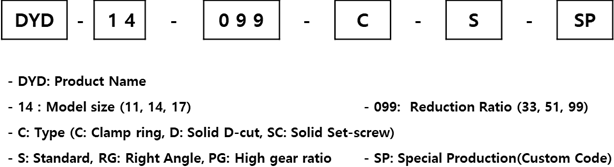
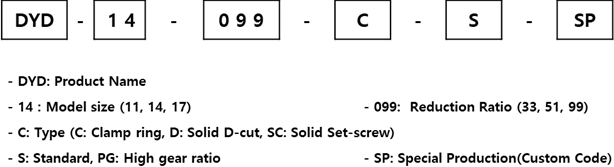
DYD update

Changed region(s): [[0.1547, 0.8982, 0.557, 1.0]]

diff --git a/docs/en/dyd/all_dyd.md b/docs/en/dyd/all_dyd.md
@@ -21,15 +21,15 @@ Generally, a traditional Cycloidal Gear Drive is well known as being strong but 
 
 |                      Characteristics                      |  Planetary  |  Harmonic   |     DYD     |
 |:---------------------------------------------------------:|:-----------:|:-----------:|:-----------:|
-|                        Gear ratio                         |  O          | **&#9678;** | **&#9678;** |
-|                       Contact ratio                       |  O          |  O          | **&#9678;** |
+|                        Gear ratio                         |      O      | **&#9678;** | **&#9678;** |
+|                       Contact ratio                       |      O      |      O      | **&#9678;** |
 |                       Compact size                        | **&#9651;** | **&#9678;** | **&#9678;** |
 |                       Light Weight                        | **&#9651;** | **&#9678;** | **&#9678;** |
-|                         Backlash                          | **&#9651;** | **&#9678;** |  O          |
+|                         Backlash                          | **&#9651;** | **&#9678;** |      O      |
 |                        Efficiency                         | **&#9678;** | **&#9678;** | **&#9678;** |
-|               Rigidity under impact (shock)               |  O          | **&#9651;** | **&#9678;** |
-|                     Noise & vibration                     | **&#9651;** | **&#9678;** |  O          |
-| Operating time to failure under heavy operating condition |  O          | **&#9651;** | **&#9678;** |
+|               Rigidity under impact (shock)               |      O      | **&#9651;** | **&#9678;** |
+|                     Noise & vibration                     | **&#9651;** | **&#9678;** |      O      |
+| Operating time to failure under heavy operating condition |      O      | **&#9651;** | **&#9678;** |
 
 {% include en/dyd/dyd_warning.md %}
 
@@ -65,28 +65,28 @@ In the following image, it is shown that the rotational direction of the input m
 
 ## [Specifications](#specifications)
 
-|             Properties             | Unit  | DYD-11-033 | DYD-11-051 | DYD-14-051 | DYD-14-099 | DYD-17-051 | DYD-17-099 |
-|:----------------------------------:|:-----:|:----------:|:----------:|:----------:|:----------:|:----------:|:----------:|
-|             Gear ratio             |   -   |     33     |     51     |     51     |     99     |     51     |     99     |
-|       Repeatable peak torque       |  Nm   |    8.5     |    17.0    |    27.0    |    39.0    |    34.0    |    54.0    |
-| Read output torque<br>(@2,000 rpm) |  Nm   |    2.2     |    3.5     |    5.4     |    7.8     |    16.0    |    24.0    |
-|        Maximum input Speed         |  rpm  |   6,000    |   6,000    |   6,000    |   6,000    |   6,000    |   6,000    |
-|        Average input speed         |  rpm  |   2,000    |   2,000    |   2,000    |   2,000    |   2,000    |   2,000    |
-|     Hysteresis loss / Backlash     | armin |    <3.0    |    <3.0    |    <3.0    |    <3.0    |    <3.0    |    <3.0    |
-|          Starting torque           |  cNm  |     20     |     20     |     20     |     20     |     30     |     30     |
-|            Service life            | horse |   3,000    |   3,000    |   5,000    |   5,000    |   5,000    |   5,000    |
-|         Dimension (W X H)          |  mm   | 43 X 23.65 | 43 X 23.6  |  ø68 x 30  |  ø68 x 30  | ø78 x 34.2 | ø78 x 34.2 |
-|               Weight               |   g   |    196     |    196     |    400     |    400     |    600     |    600     |
+|             Properties             |  Unit  | DYD-11-033  | DYD-11-051 | DYD-14-051 | DYD-14-099 | DYD-17-051 | DYD-17-099 |
+|:----------------------------------:|:------:|:-----------:|:----------:|:----------:|:----------:|:----------:|:----------:|
+|             Gear ratio             |   -    |     33      |     51     |     51     |     99     |     51     |     99     |
+|       Repeatable peak torque       |   Nm   |     8.5     |    17.0    |    27.0    |    39.0    |    34.0    |    54.0    |
+| Read output torque<br>(@2,000 rpm) |   Nm   |     2.2     |    3.5     |    5.4     |    7.8     |    16.0    |    24.0    |
+|        Maximum input speed         |  rpm   |    6,000    |   6,000    |   6,000    |   6,000    |   6,000    |   6,000    |
+|        Average input speed         |  rpm   |    2,000    |   2,000    |   2,000    |   2,000    |   2,000    |   2,000    |
+|     Hysteresis loss / Backlash     | arcmin |    <3.0     |    <3.0    |    <3.0    |    <3.0    |    <3.0    |    <3.0    |
+|          Starting torque           |  cNm   |     20      |     20     |     20     |     20     |     30     |     30     |
+|            Service life            | horse  |    3,000    |   3,000    |   5,000    |   5,000    |   5,000    |   5,000    |
+|         Dimension (W X H)          |   mm   | ø43 X 23.65 | ø43 X 23.6 |  ø68 x 30  |  ø68 x 30  | ø78 x 34.2 | ø78 x 34.2 |
+|               Weight               |   g    |     196     |    196     |    400     |    400     |    600     |    600     |
 
 ## [Part Numbers](#part-numbers)
 
 ![](/assets/images/dyd/dyd_parts_number_01.png)
 
-| Product name | Model Size | Ratio  | Shaft version |  Option   | Special production |
-|:------------:|:----------:|:------:|:-------------:|:---------:|:------------------:|
-|     DYD      |     11     | 33, 51 |      SC       | S, RG, PG |         SP         |
-|     DYD      |     14     | 51, 99 |      C,D      | S, RG, PG |         SP         |
-|     DYD      |     17     | 51, 99 |      C,D      | S, RG, PG |         SP         |
+| Product name | Model Size | Ratio  | Shaft version | Option | Special production |
+|:------------:|:----------:|:------:|:-------------:|:------:|:------------------:|
+|     DYD      |     11     | 33, 51 |      SC       |  S,PG  |         SP         |
+|     DYD      |     14     | 51, 99 |      C,D      |  S,PG  |         SP         |
+|     DYD      |     17     | 51, 99 |      C,D      |  S,PG  |         SP         |
 
 # [Product Selection Guide](#product-selection-guide)
 
@@ -185,7 +185,7 @@ The required service life for a given speed and load values can be calculated as
 |             Gear ratio             |   -    |     51     |
 |       Repeatable peak torque       |   Nm   |    27.0    |
 | Read output torque<br>(@2,000 rpm) |   Nm   |    5.4     |
-|        Maximum input Speed         |  rpm   |   6,000    |
+|        Maximum input speed         |  rpm   |   6,000    |
 |        Average input speed         |  rpm   |   2,000    |
 |     Hysteresis loss / Backlash     | arcmin |    <3.0    |
 |          Starting torque           |  cNm   |     20     |
@@ -220,7 +220,7 @@ Required service life : 5,000 hours > Expected service life : 4,880 hours
 |             Gear ratio             |     99     |
 |       Repeatable peak torque       |    39.0    |
 | Read output torque<br>(@2,000 rpm) |    7.8     |
-|        Maximum input Speed         |   6,000    |
+|        Maximum input speed         |   6,000    |
 |        Average input speed         |   2,000    |
 |     Hysteresis loss / Backlash     |    <3.0    |
 |          Starting torque           |     20     |
@@ -259,7 +259,7 @@ Starting Torque = 20 cNm (DYD-14)
 
 ### [Select the Type of Input Shaft](#select-the-type-of-input-shaft)
 
-| Option |                   Type - C                    |               Type - D                |                  Type-SC                  |
+| Option |                   Type - C                    |               Type - D                |                  Type - SC                  |
 |:------:|:---------------------------------------------:|:-------------------------------------:|:-----------------------------------------:|
 | Shape  | ![](/assets/images/dyd/dyd_clamp_ring_01.png) | ![](/assets/images/dyd/dyd_d_cut.png) | ![](/assets/images/dyd/dyd_set_screw.png) |
 |  Name  |                  Clamp-ring                   |                 D-Cut                 |                 Set-screw                 |

diff --git a/docs/en/dyd/dyd_14.md b/docs/en/dyd/dyd_14.md
@@ -25,10 +25,10 @@ product_group: all-dyd
 |             Gear ratio             |      -      |     51     |     99     |  -   |
 |       Repeatable peak torque       |     Nm      |    27.0    |    39.0    |  -   |
 | Read output torque<br>(@2,000 rpm) |     Nm      |    5.4     |    7.8     |  -   |
-|        Maximum input Speed         |     rpm     |   6,000    |   6,000    |  -   |
+|        Maximum input speed         |     rpm     |   6,000    |   6,000    |  -   |
 |        Average input speed         |     rpm     |   2,000    |   2,000    |  -   |
 |         Moment of intertia         | X10-4 kgm^2 |   0.119    |   0.135    |  -   |
-|     Hysteresis loss / Backlash     |    armin    |    <3.0    |    <3.0    |  -   |
+|     Hysteresis loss / Backlash     |   arcmin    |    <3.0    |    <3.0    |  -   |
 |            Lost motion             |   arcmin    |    <3.0    |    <3.0    |  -   |
 |        Torsional stiffness         |  Nm/arcmin  |    2.0     |    2.0     |  -   |
 | Efficiency(@2,000 rpm, 20 &#8451;) |      %      |     55     |     55     |  -   |
@@ -72,28 +72,26 @@ Additional planetary gears(PG) with various reduction ratio can be attached in o
 |  PG gear ratio   |  3  |  4  |  5  |  7  |  3  |  4  |  5  |  7  |
 | Total gear ratio | 153 | 204 | 255 | 357 | 297 | 396 | 495 | 693 |
 
-## [Right angle (RA option), RG Option](#right-angle-ra-option-rg-option)
-
-When a straight connection cannot be made due to a restriction in space, RG option can be applied.
-
-![](/assets/images/dyd/dyd_14_rg_option_01.png)
-
-> RG Option
-
-**NOTE**: RG option does not affect the final reduction ratio.
-{: .notice}
-
 ## [Input shaft options](#input-shaft-options)
 
-Various input shaft options can be selected with the DYD.
+Various input shaft options (Type C / D / SC) can be selected with the DYD. See the following table and select the input shaft option to use with DYD. 
 
-| Option |                   Type - C                    |               Type - D                |                  Type-SC                  |
+| Option |                   Type - C                    |               Type - D                |                 Type - SC                 |
 |:------:|:---------------------------------------------:|:-------------------------------------:|:-----------------------------------------:|
 | Shape  | ![](/assets/images/dyd/dyd_clamp_ring_01.png) | ![](/assets/images/dyd/dyd_d_cut.png) | ![](/assets/images/dyd/dyd_set_screw.png) |
 |  Name  |                  Clamp-ring                   |                 D-Cut                 |                 Set-screw                 |
 
-**NOTE**: The Type-C is provided as a default option.
-{: .notice}
+{% capture dyd_input_shaft_reference %}
+
+**NOTE**: Reference the recommended input shaft option type for each DYD.
+
+| DYD-11  |  DYD-14  |  DYD-17  |
+|:-------:|:--------:|:--------:|
+| Type-SC | Type - C | Type - C |
+
+{% endcapture %}
+
+<div class="notice">{{ dyd_input_shaft_reference | markdownify }}</div>
 
 # [Assembly](#assembly)
 
@@ -112,11 +110,3 @@ The PG option that provides high ratio reduction, requires a bracket to attach t
 ![](/assets/images/dyd/dyd_14_pg_option_assembly_01.png)
 
 > Assembly Example for PG option
-
-## [Assembly example of RG option](#assembly-example-of-rg-option)
-
-The RG option that changes the input direction requires a bracket to attach the motor to the apparatus. The bracket for a motor is not provided.
-
-![](/assets/images/dyd/dyd_14_rg_option_assembly_01.png)
-
-> Assembly Example for RG option

diff --git a/docs/en/dyd/dyd_17.md b/docs/en/dyd/dyd_17.md
@@ -25,10 +25,10 @@ product_group: all-dyd
 |             Gear ratio             |      -      |     51     |     99     |  -   |
 |       Repeatable peak torque       |     Nm      |    34.0    |    54.0    |  -   |
 | Read output torque<br>(@2,000 rpm) |     Nm      |    16.0    |    24.0    |  -   |
-|        Maximum input Speed         |     rpm     |   6,000    |   6,000    |  -   |
+|        Maximum input speed         |     rpm     |   6,000    |   6,000    |  -   |
 |        Average input speed         |     rpm     |   2,000    |   2,000    |  -   |
 |         Moment of intertia         | X10-4 kgm^2 |   0.284    |   0.322    |  -   |
-|     Hysteresis loss / Backlash     |    armin    |    <3.0    |    <3.0    |  -   |
+|     Hysteresis loss / Backlash     |    arcmin    |    <3.0    |    <3.0    |  -   |
 |            Lost motion             |   arcmin    |    <3.0    |    <3.0    |  -   |
 |        Torsional stiffness         |  Nm/arcmin  |    2.2     |    2.2     |  -   |
 | Efficiency(@2,000 rpm, 20 &#8451;) |      %      |     58     |     58     |  -   |
@@ -72,28 +72,26 @@ Additional planetary gears(PG) with various reduction ratio can be attached in o
 |  PG gear ratio   |  3  |  4  |  5  |  7  |  3  |  4  |  5  |  7  |
 | Total gear ratio | 153 | 204 | 255 | 357 | 297 | 396 | 495 | 693 |
 
-## [Right angle (RA option), RG Option](#right-angle-ra-option-rg-option)
-
-When a straight connection cannot be made due to a restriction in space, RG option can be applied.
-
-![](/assets/images/dyd/dyd_17_rg_option_01.png)
-
-> RG Option
-
-**NOTE**: RG option does not affect the final reduction ratio.
-{: .notice}
-
 ## [Input shaft options](#input-shaft-options)
 
 Various input shaft options can be selected with the DYD.
 
-| Option |                   Type - C                    |               Type - D                |                  Type-SC                  |
+| Option |                   Type - C                    |               Type - D                |                  Type - SC                  |
 | :----: | :-------------------------------------------: | :-----------------------------------: | :---------------------------------------: |
 | Shape  | ![](/assets/images/dyd/dyd_clamp_ring_01.png) | ![](/assets/images/dyd/dyd_d_cut.png) | ![](/assets/images/dyd/dyd_set_screw.png) |
 |  Name  |                  Clamp-ring                   |                 D-Cut                 |                 Set-screw                 |
 
-**NOTE**: The Type-C is provided as a default option.
-{: .notice}
+{% capture dyd_input_shaft_reference %}
+
+**NOTE**: Reference the recommended input shaft option type for each DYD.
+
+| DYD-11  |  DYD-14  |  DYD-17  |
+|:-------:|:--------:|:--------:|
+| Type-SC | Type - C | Type - C |
+
+{% endcapture %}
+
+<div class="notice">{{ dyd_input_shaft_reference | markdownify }}</div>
 
 # [Assembly](#assembly)
 
@@ -112,11 +110,3 @@ The PG option that provides high ratio reduction, requires a bracket to attach t
 ![](/assets/images/dyd/dyd_17_pg_option_assembly_01.png)
 
 > Assembly Example for PG option
-
-## [Assembly example of RG option](#assembly-example-of-rg-option)
-
-The RG option that changes the input direction requires a bracket to attach the motor to the apparatus. The bracket for a motor is not provided.
-
-![](/assets/images/dyd/dyd_17_rg_option_assembly_01.png)
-
-> Assembly Example for RG option

diff --git a/docs/en/dyd/dyd_11.md b/docs/en/dyd/dyd_11.md
@@ -25,7 +25,7 @@ product_group: all-dyd
 |             Gear ratio             |      -      |     33     |     51     |  -   |
 |       Repeatable peak torque       |     Nm      |    8.5     |    17.0    |  -   |
 | Read output torque<br>(@2,000 rpm) |     Nm      |    2.2     |    3.5     |  -   |
-|        Maximum input Speed         |     rpm     |   6,000    |   6,000    |  -   |
+|        Maximum input speed         |     rpm     |   6,000    |   6,000    |  -   |
 |        Average input speed         |     rpm     |   2,000    |   2,000    |  -   |
 |         Moment of intertia         | X10-4 kgm^2 |   0.022    |   0.024    |  -   |
 |     Hysteresis loss / Backlash     |   arcmin    |    <3.0    |    <3.0    |  -   |
@@ -72,28 +72,26 @@ Additional planetary gears(PG) with various reduction ratio can be attached in o
 |  PG gear ratio   | 3  |  4  |  5  |  7  | 3   |  4  |  5  |  7  |
 | Total gear ratio | 99 | 132 | 165 | 231 | 153 | 204 | 255 | 357 |
 
-## [Right angle (RA option), RG Option](#right-angle-ra-option-rg-option)
-
-When a straight connection cannot be made due to a restriction in space, RG option can be applied.
-
-![](/assets/images/dyd/dyd_11_rg_option_01.png)
-
-> RG Option
-
-**NOTE**: RG option does not affect the final reduction ratio.
-{: .notice}
-
 ## [Input shaft options](#input-shaft-option)
 
 Various input shaft options can be selected with the DYD.
 
-| Option |                   Type - C                    |               Type - D                |                  Type-SC                  |
+| Option |                   Type - C                    |               Type - D                |                  Type - SC                  |
 |:------:|:---------------------------------------------:|:-------------------------------------:|:-----------------------------------------:|
 | Shape  | ![](/assets/images/dyd/dyd_clamp_ring_01.png) | ![](/assets/images/dyd/dyd_d_cut.png) | ![](/assets/images/dyd/dyd_set_screw.png) |
 |  Name  |                  Clamp-ring                   |                 D-Cut                 |                 Set-screw                 |
 
-**NOTE**: The Type-C is provided as a default option.
-{: .notice}
+{% capture dyd_input_shaft_reference %}
+
+**NOTE**: Reference the recommended input shaft option type for each DYD.
+
+| DYD-11  |  DYD-14  |  DYD-17  |
+|:-------:|:--------:|:--------:|
+| Type-SC | Type - C | Type - C |
+
+{% endcapture %}
+
+<div class="notice">{{ dyd_input_shaft_reference | markdownify }}</div>
 
 # [Assembly](#assembly)
 
@@ -112,11 +110,3 @@ The PG option that provides high ratio reduction, requires a bracket to attach t
 ![](/assets/images/dyd/dyd_11_pg_option_assembly_01.png)
 
 > Assembly Example for PG option
-
-## [Assembly example of RG option](#assembly-example-of-rg-option)
-
-The RG option that changes the input direction requires a bracket to attach the motor to the apparatus. The bracket for a motor is not provided.
-
-![](/assets/images/dyd/dyd_11_rg_option_assembly_01.png)
-
-> Assembly Example for RG option

diff --git a/docs/en/parts/sensor/ax-s1.md b/docs/en/parts/sensor/ax-s1.md
@@ -193,7 +193,7 @@ A buzzer is installed in AX-S1, and simple beep sounds can be made.  Total 52 mu
  
  
 ### <a name="buzzer-ring"></a>Buzzer Ringing Time
-AX-S1 has a function to control the buzzer alarming time.  It is possible to control by the unit of 0.1 second, and the minimum length is set to 0.3 seconds; the time can be extended up to maximum 5 seconds.  That is, if 0~3 is entered, the buzzer rings for 0.3 seconds; if the value over 50 is entered, the buzzer rings only for 5 seconds regardless of the value.  Moreover, if the ringing is finished, the buzzer ringing time is automatically initialized to '0.'
+AX-S1 has a function to control the buzzer alarcming time.  It is possible to control by the unit of 0.1 second, and the minimum length is set to 0.3 seconds; the time can be extended up to maximum 5 seconds.  That is, if 0~3 is entered, the buzzer rings for 0.3 seconds; if the value over 50 is entered, the buzzer rings only for 5 seconds regardless of the value.  Moreover, if the ringing is finished, the buzzer ringing time is automatically initialized to '0.'
 There are 2 special buzzer ringing time functions for AX-S1.  Firstly, the buzzer can be ringing without stopping.  If 254 is entered in buzzer ringing time, and the number of desired musical notes is entered, the buzzer rings without stopping.  To stop the ringing, '0' is entered in buzzer ringing time.
 Secondly, the buzzer can play special melodies.  If 255 is entered in buzzer ringing time, and then the value 0~26 is entered in buzzer notes, 27 melodies corresponding to each number can be played. If the ringing is finished, the buzzer ringing time is automatically initialized to '0.'
  

diff --git a/docs/en/parts/sensor/ir-array.md b/docs/en/parts/sensor/ir-array.md
@@ -187,7 +187,7 @@ A buzzer is installed in AX-S1, and simple beep sounds can be made.  Total 52 mu
  
  
 ### <a name="buzzer-ring"></a>Buzzer Ringing Time
-AX-S1 has a function to control the buzzer alarming time.  It is possible to control by the unit of 0.1 second, and the minimum length is set to 0.3 seconds; the time can be extended up to maximum 5 seconds.  That is, if 0~3 is entered, the buzzer rings for 0.3 seconds; if the value over 50 is entered, the buzzer rings only for 5 seconds regardless of the value.  Moreover, if the ringing is finished, the buzzer ringing time is automatically initialized to '0'.
+AX-S1 has a function to control the buzzer alarcming time.  It is possible to control by the unit of 0.1 second, and the minimum length is set to 0.3 seconds; the time can be extended up to maximum 5 seconds.  That is, if 0~3 is entered, the buzzer rings for 0.3 seconds; if the value over 50 is entered, the buzzer rings only for 5 seconds regardless of the value.  Moreover, if the ringing is finished, the buzzer ringing time is automatically initialized to '0'.
 There are 2 special buzzer ringing time functions for AX-S1.  Firstly, the buzzer can be ringing without stopping.  If 254 is entered in buzzer ringing time, and the number of desired musical notes is entered, the buzzer rings without stopping.  To stop the ringing, '0' is entered in buzzer ringing time.
 Secondly, the buzzer can play special melodies.  If 255 is entered in buzzer ringing time, and then the value 0~26 is entered in buzzer notes, 27 melodies corresponding to each number can be played. If the ringing is finished, the buzzer ringing time is automatically initialized to '0'.
 
